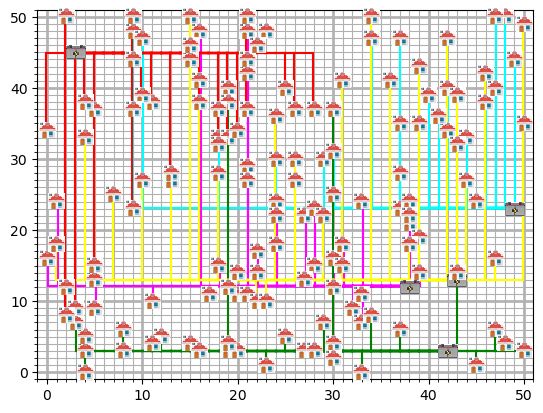
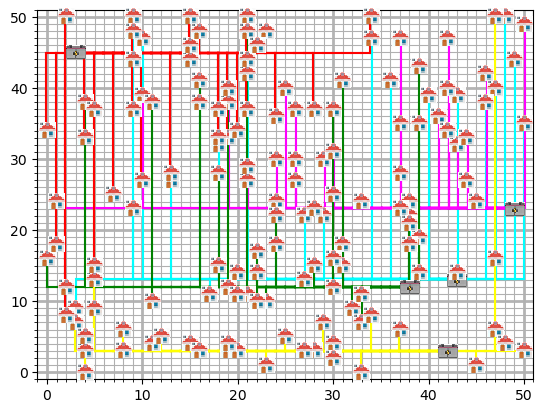
Minor fixes

diff --git a/main.py b/main.py
@@ -24,12 +24,16 @@ def main():
 
     grid = Grid(wijk, f"data/wijk{wijk}_huizen.csv", f"data/wijk{wijk}_batterijen.csv")
 
-    # Roep draw aan
+    # Voer algoritme op grid uit
+    lay_cables(grid)
+
+    # Teken grid
     draw(grid)
 
     # Algoritme run-time test om de beste kosten en run-time in 10k pogingen te vinden
     # beste_prijs = 100000
-
+    #
+    # start_time = time.time()
     # for poging in range(10000):
     #     grid = Grid(wijk, f"data/wijk{wijk}_huizen.csv", f"data/wijk{wijk}_batterijen.csv")
     #     lay_cables(grid)
@@ -40,8 +44,7 @@ def main():
     #         beste_prijs = eind_prijs
     #
     # print(beste_prijs)
+    # print("--- %s seconds runtime ---" % (time.time() - start_time))
 
 if __name__=="__main__":
-    start_time = time.time()
     main()
-    print("--- %s seconds runtime ---" % (time.time() - start_time))

diff --git a/algorithms/randomize_dist_cap.py b/algorithms/randomize_dist_cap.py
@@ -3,12 +3,12 @@ from random import shuffle
 
 # Todo: Upper en lower bound definieren
 
-def randomize_objects(grid):
+def randomize_objects(huizen, batterijen):
     """
     Schud de batterijen en huizen in de grid, om de volgorde te randomizen
     """
-    shuffle(grid.get_batterijen())
-    shuffle(grid.get_huizen())
+    shuffle(huizen)
+    shuffle(batterijen)
 
 def find_battery(grid, huis):
     """
@@ -43,8 +43,7 @@ def lay_cables(grid):
     huizen = grid.get_huizen()
     batterijen = grid.get_batterijen()
 
-    shuffle(huizen)
-    shuffle(batterijen)
+    randomize_objects(huizen, batterijen)
 
     for huis in huizen:
         batterij = find_battery(grid, huis)
